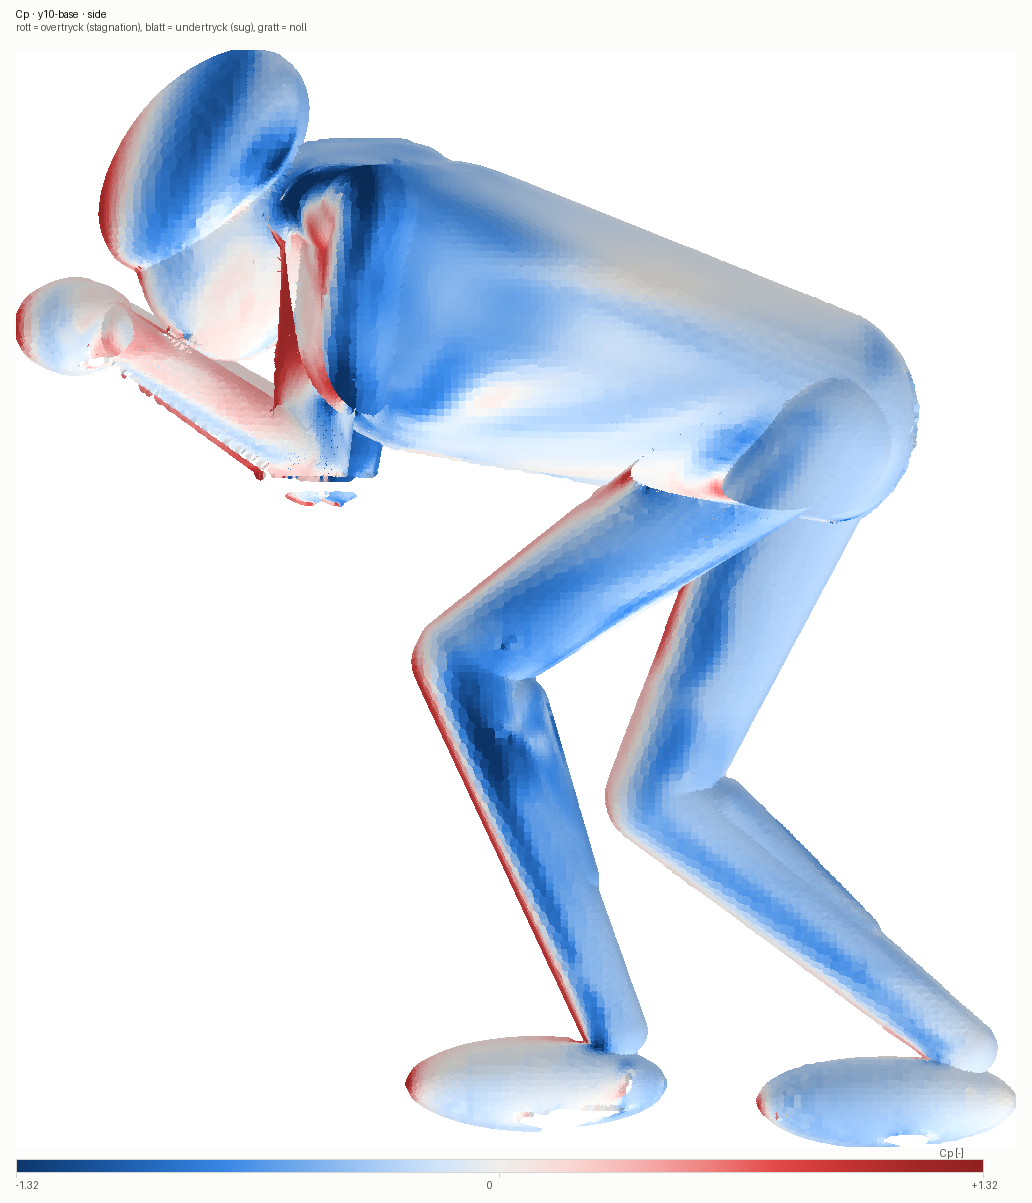
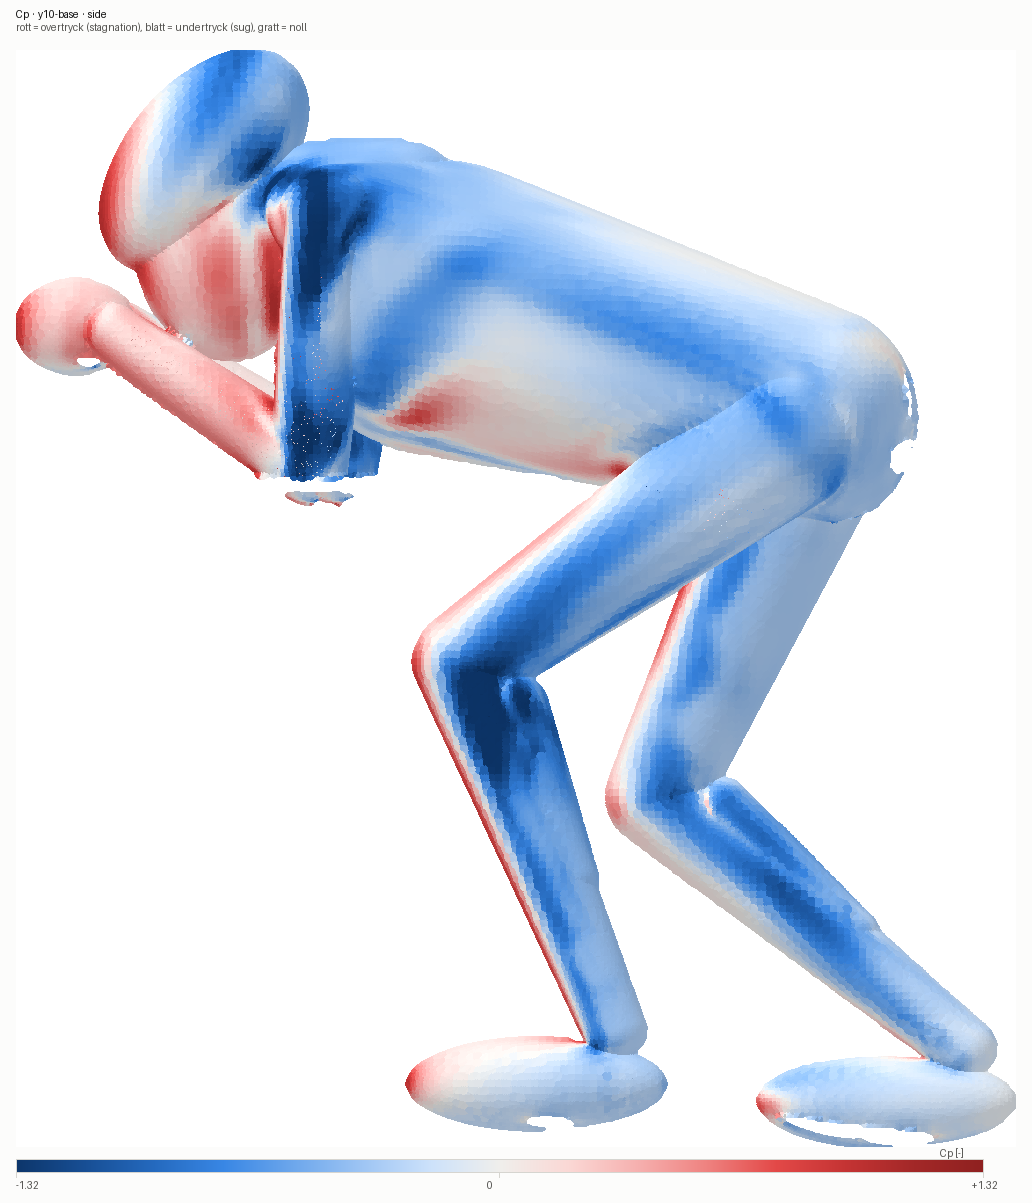
Vänd vindningen i read_vtp i stället för att kompensera den på varje ställe
Användaren såg att modellen verkade stå upp och ner i 3D-vyn. Geometrin är
rättvänd - översta tiondelen är smal, alltså hjälmen, och nedersta bred och lång,
alltså skorna isär. Felet satt i normalerna.

OpenFOAMs .vtp-patchar kommer med vindning som ger INÅTPEKANDE normaler.
Signerad volym var -0.0716 m³ där den ska vara positiv. Jag kompenserade det
tecknet där det användes i tryckintegralen, och det höll precis tills samma mesh
renderades: med inåtpekande normaler inverteras ljussättningen, ovansidan skuggas
och undersidan lyser, och en cyklist belyst underifrån ser upp och ner ut.

Nu vänds vindningen en gång i read_vtp, verifierat med divergenssatsen:
-0.0716 -> +0.0710 m³. Tryckets tecken i field_report följer med, och
CdA-summorna är identiska före och efter - fixen rör orienteringen, inte fysiken.

Ytrenderingarna omgjorda, och 3D-vyn kan nu köra FrontSide i stället för
DoubleSide eftersom ytan är korrekt orienterad.

Läxan är att en kompensation på användningsstället döljer felet i stället för att
lösa det. Det här är andra gången samma vindning bet.

Claude-Session: https://claude.ai/code/session_01MWvvwRB51gMe9goHvSptQu

Changed region(s): [[0.0, 0.0308, 0.9922, 0.9534], [0.3721, 0.7689, 0.6512, 0.9534], [0.5581, 0.7074, 0.5891, 0.7382]]

diff --git a/aero_case/tools/plot_fields.py b/aero_case/tools/plot_fields.py
@@ -83,6 +83,14 @@ def read_vtp(path):
         for j in range(1, len(poly) - 1):          # triangelfläkt
             tris.append((poly[0], poly[j], poly[j + 1])); src.append(i)
     F = np.asarray(tris, np.int64); S = np.asarray(src, np.int64)
+    # OpenFOAMs .vtp-patchar kommer med vindning som ger INÅTPEKANDE normaler.
+    # Kontrollerat med divergenssatsen: signerad volym blir negativ som den kommer.
+    # Lämnas den så inverteras ljussättningen i varje rendering (ovansidan skuggas,
+    # undersidan lyser) och tryckintegralen får fel tecken. Vänds här, en gång, i
+    # stället för att kompenseras på varje användningsställe.
+    v0, v1, v2 = pts[F[:, 0]], pts[F[:, 1]], pts[F[:, 2]]
+    if np.einsum('ij,ij->i', v0, np.cross(v1 - v0, v2 - v0)).sum() < 0:
+        F = F[:, [0, 2, 1]]
     fields = {}
     cd = piece.find('CellData')
     if cd is not None:

diff --git a/aero_case/tools/field_report.py b/aero_case/tools/field_report.py
@@ -42,7 +42,9 @@ def case_contrib(d, uinf):
             continue
         m, fld = read_vtp(f)
         A, n = m.area_faces, m.face_normals
-        v = (np.asarray(fld['p']) * (n @ dd) * A) / q
+        # Normalerna pekar UT (read_vtp vänder vindningen), så trycket verkar
+        # längs -n: motståndet blir -p*(n.dragDir)*A.
+        v = -(np.asarray(fld['p']) * (n @ dd) * A) / q
         if 'wallShearStress' in fld:
             v = v - ((np.asarray(fld['wallShearStress']) @ dd) * A) / q
         out[part] = (m.triangles_center, v)

diff --git a/aero_case/README.md b/aero_case/README.md
@@ -1032,8 +1032,17 @@ på begäran med `plot_fields.py` när någon skickar över artefakten.
 
 | | |
 |---|---|
-| `wallShearStress` | returneras med motsatt tecken mot strömningen → vänds |
-| ytnormalerna i `.vtp` | pekar inåt → tryckbidraget får plustecken |
+| `wallShearStress` | returneras med motsatt tecken mot strömningen → vänds i `plot_fields` |
+| vindningen i `.vtp` | ger inåtpekande normaler → **vänds i `read_vtp`**, en gång |
+
+Vindningen hanterades först genom att kompensera tecknet där den användes. Det höll bara tills
+samma mesh renderades: med inåtpekande normaler inverteras ljussättningen, så ovansidan
+skuggas och undersidan lyser — en cyklist belyst underifrån ser upp och ner ut. Användaren såg
+det i 3D-vyn.
+
+Nu vänds vindningen i `read_vtp`, verifierat med divergenssatsen (signerad volym ska vara
+positiv: −0.0716 → +0.0710 m³). CdA-summorna är oförändrade; fixen rör orienteringen, inte
+fysiken.
 
 Kontrollen är att summan reproducerar `forceCoeffs`. På run 36224931538 stämmer den till
 0.5–1 % i alla fyra fallen. Gör den inte det är något antagande fel, och verktyget ska då säga
